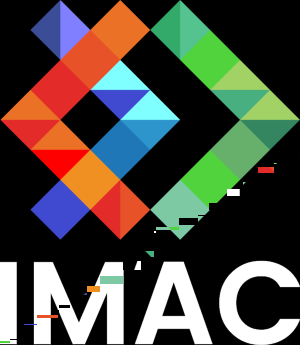
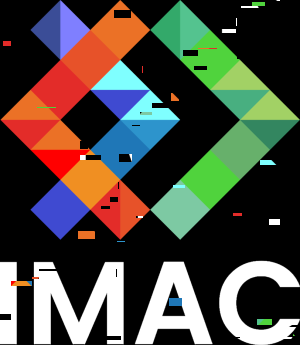
glitch little bit better

diff --git a/src/main.cpp b/src/main.cpp
@@ -236,29 +236,25 @@ old version avec boucle imbriquée donc pas fou fou
         for (int y{0}; y < image.height(); y++)
         {
             float const random_value = random_float(0.f, 1.f);
-            if (random_value < 0.20)
+            if (random_value < 0.10f)
             {
+                //std::cout << "glitch à la position " << x << " " << y << std::endl;
                 int const random_width = random_int(1, 25);
                 int const random_height = random_int(1, 10);
                 int const random_x = random_int(1, image.width() - random_width);
                 int const random_y = random_int(1, image.height() - random_height);
 
-                for (int i = 0; i < random_width && x + i < image.width(); i++)
+                for (int i{0}; i < random_width && x + i < image.width(); i++)
                 {
-                    for (int j = 0; j < random_height && y + j < image.height(); j++)
+                    for (int j{0}; j < random_height && y + j < image.height(); j++)
                     {
-                        newImage.pixel(x + i, y + j) = image.pixel(random_x + i, random_y + j);
+                        std::swap(newImage.pixel(x + i, y + j), newImage.pixel(random_x + i, random_y + j));
                     }
                 }
+                
                 x += random_width;
                 y += random_height;
-            }
-            else
-            {
-                if (x < image.width() && y < image.height())
-                {
-                    newImage.pixel(x, y) = image.pixel(x, y);
-                }
+
             }
         }
     }
